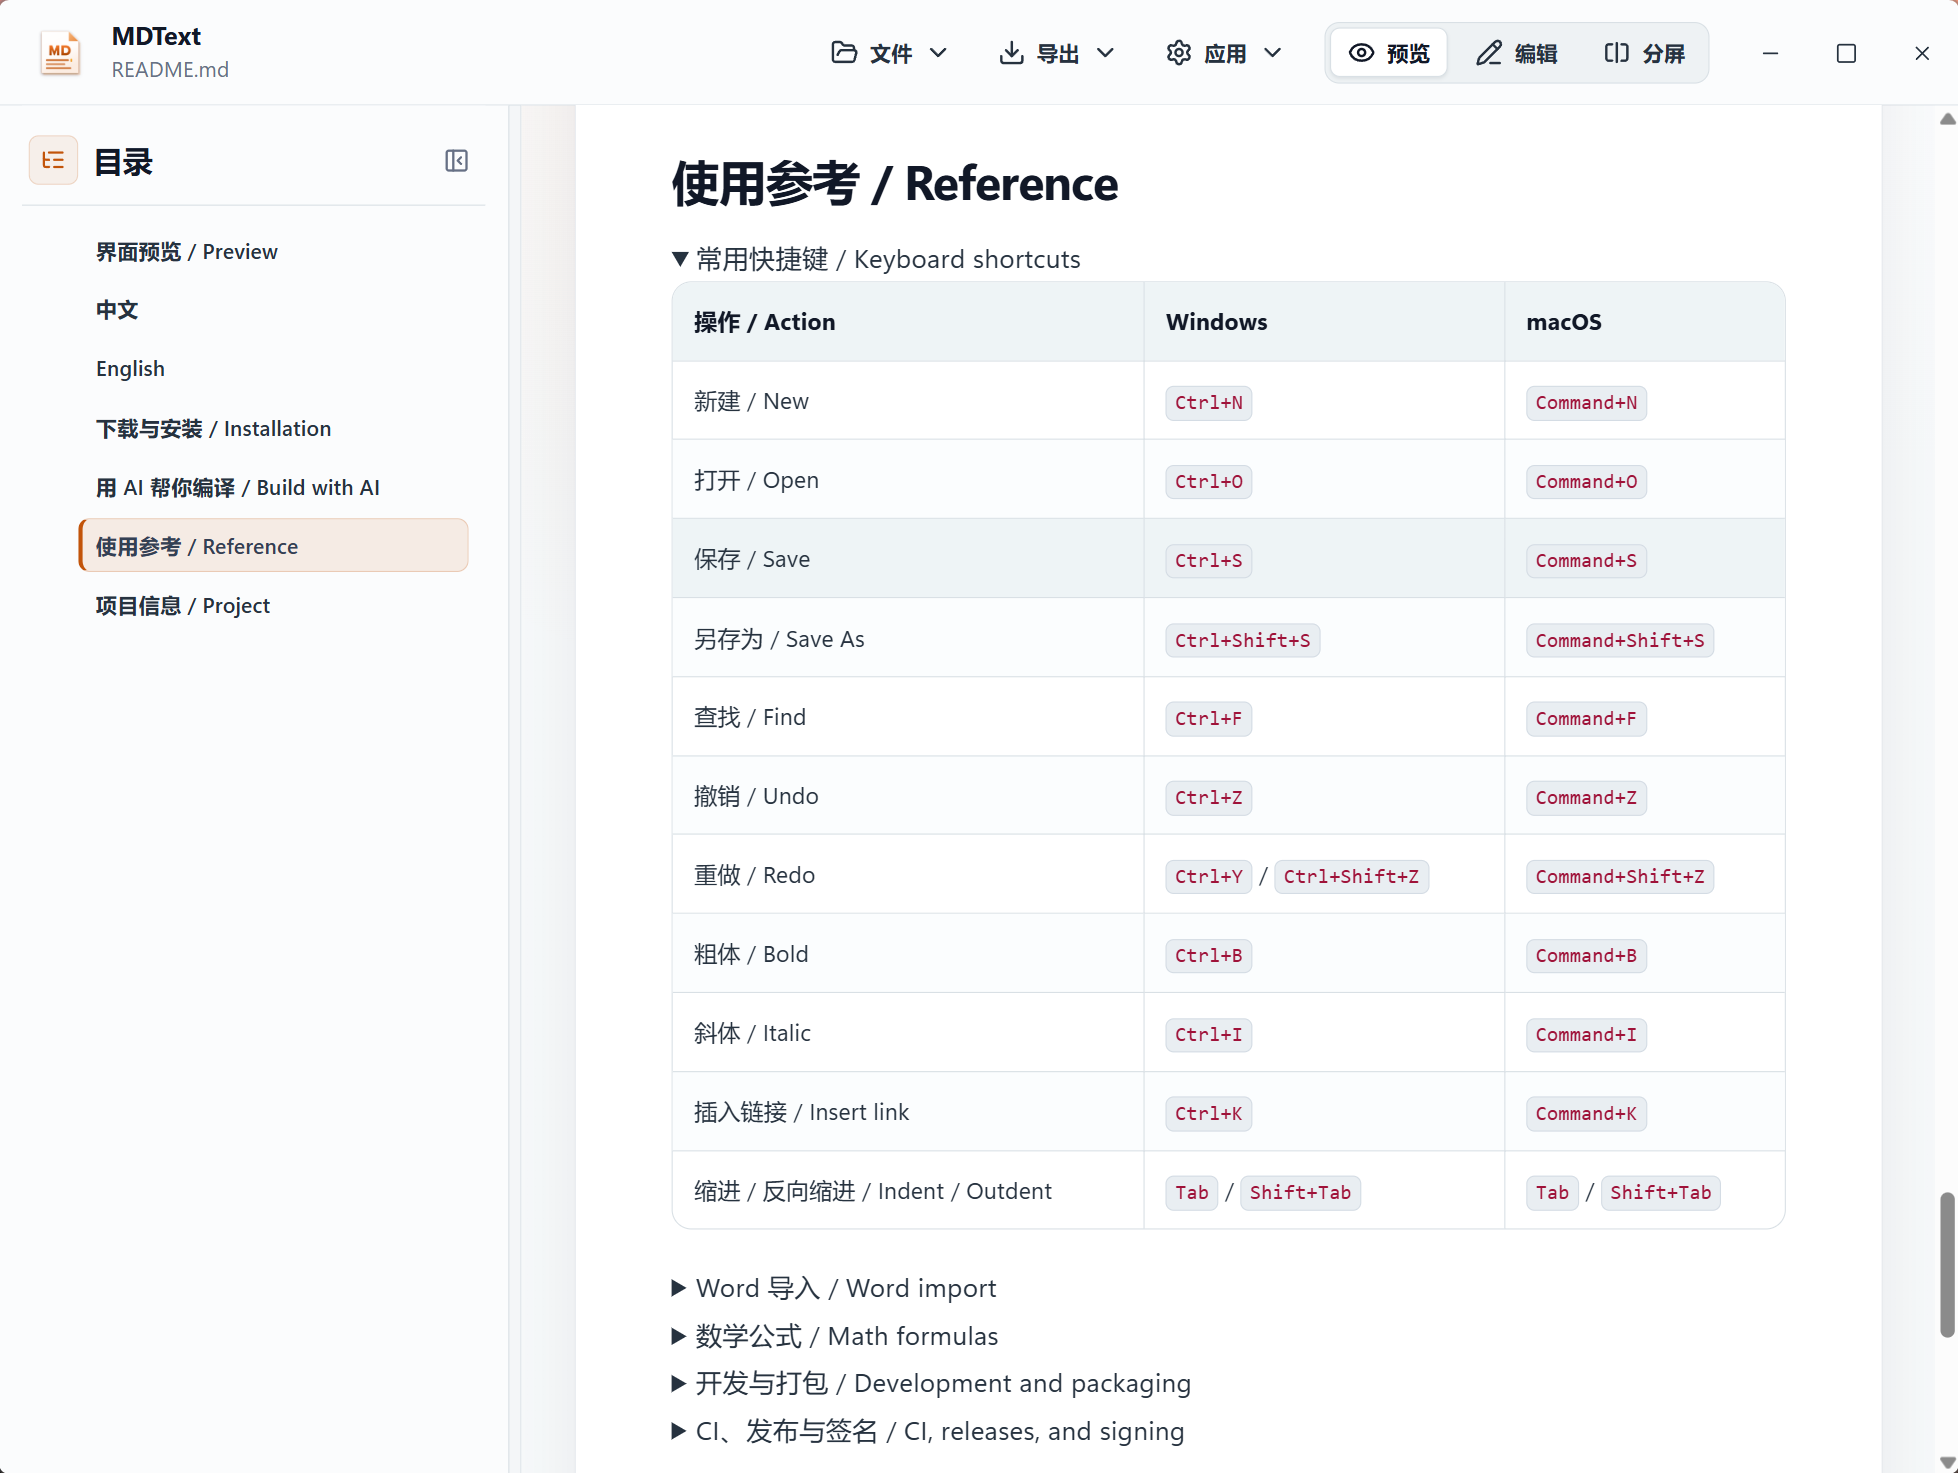
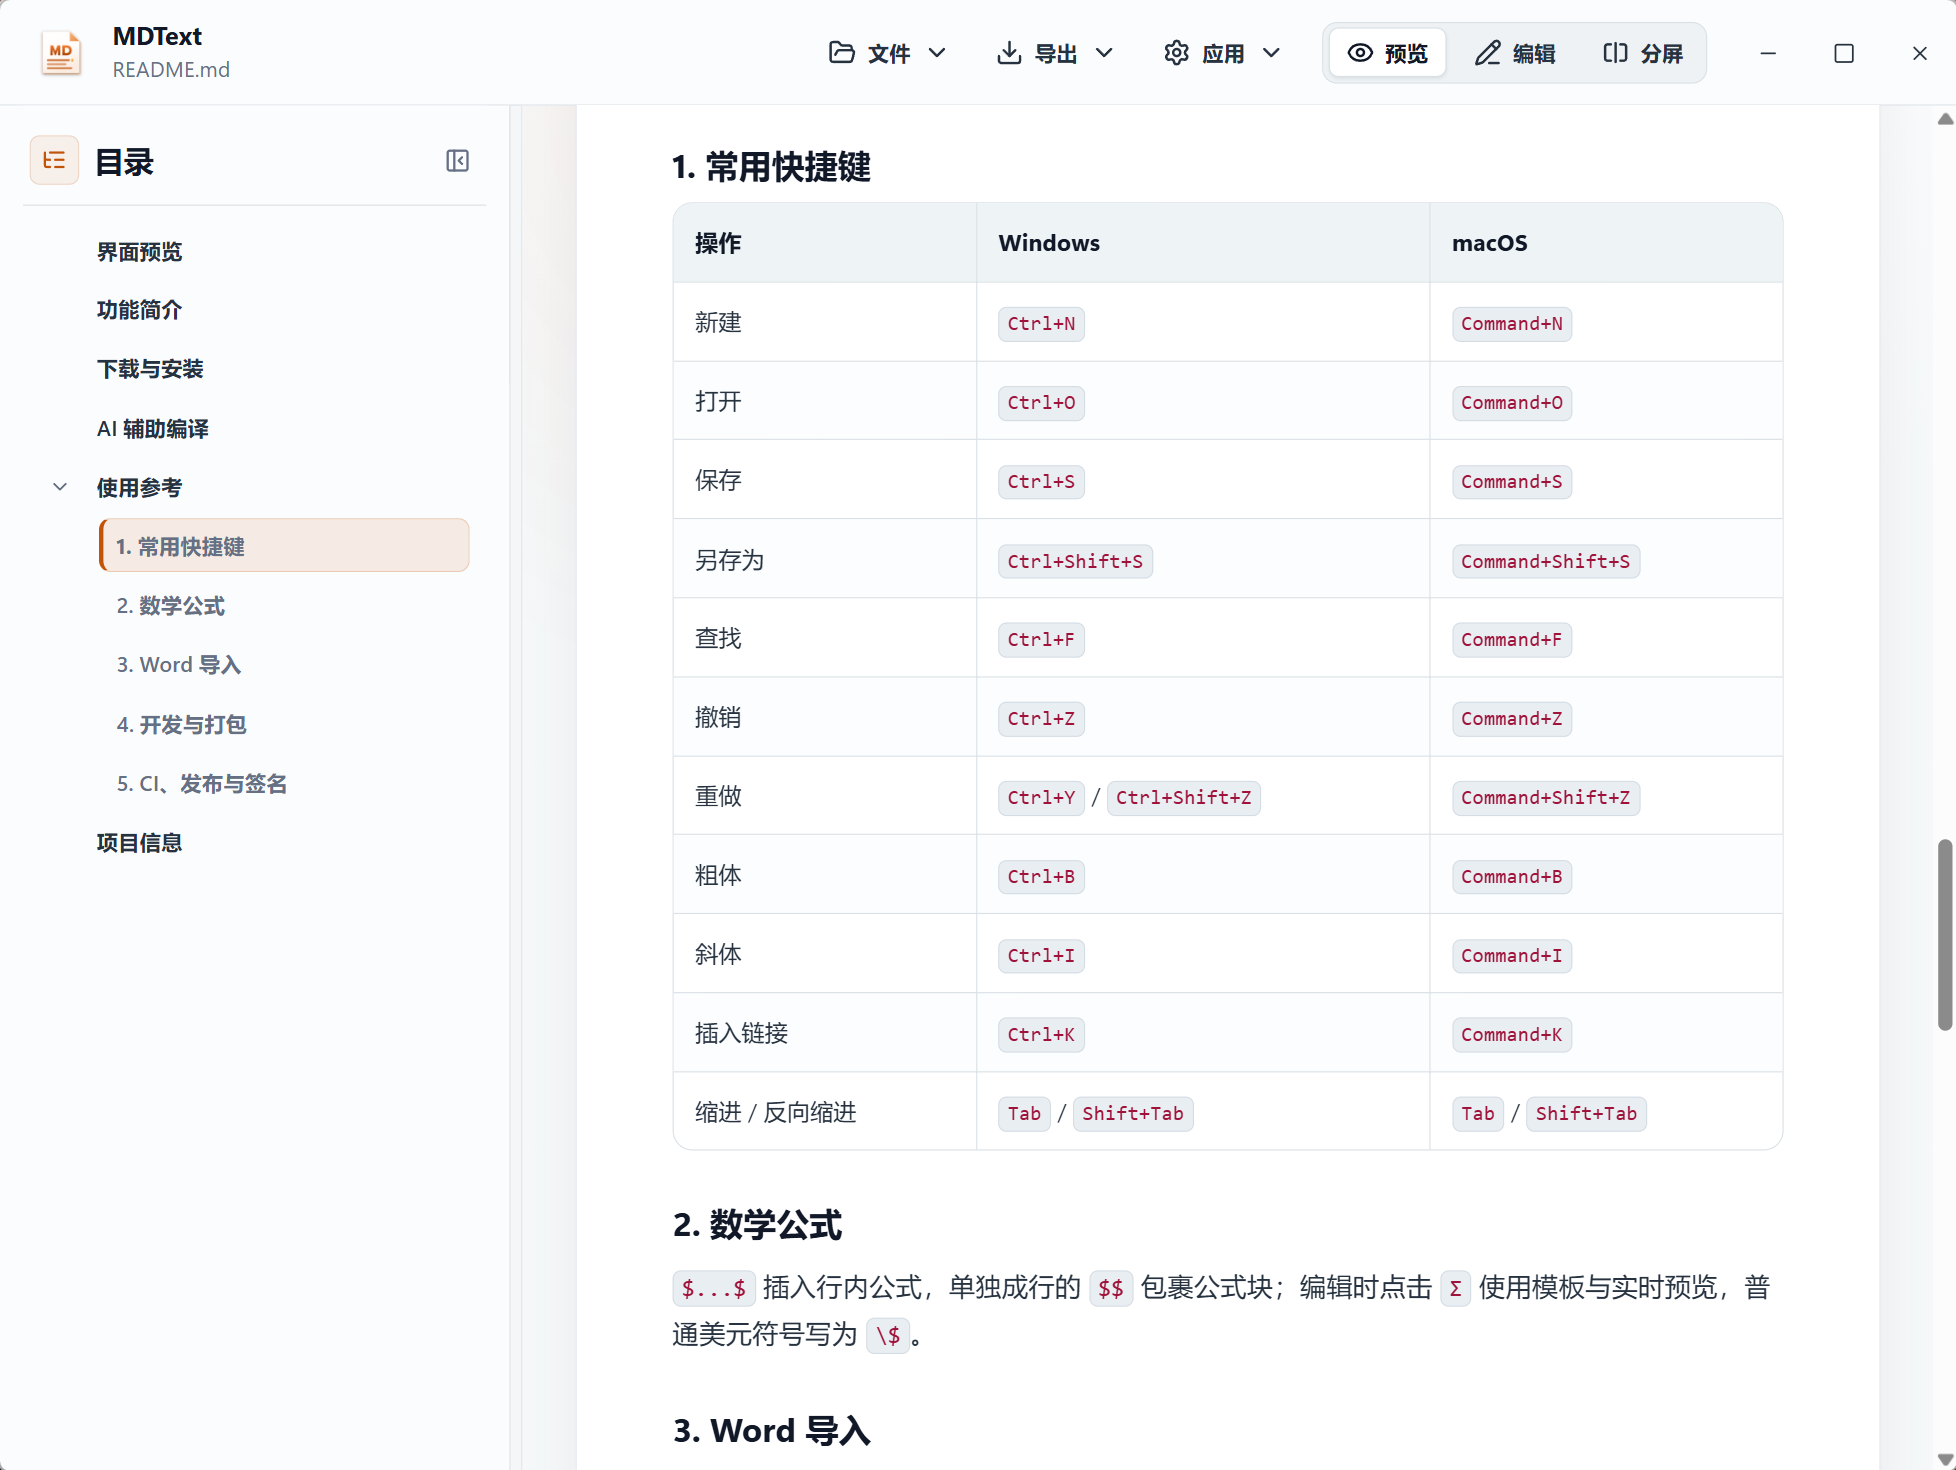
更新介绍

diff --git a/src/i18n.ts b/src/i18n.ts
@@ -367,7 +367,7 @@ export const translations = {
     fileMenu: '文件',
     exportMenu: '导出',
     appMenu: '应用',
-    createNew: '新建',
+    createNew: '新建文件',
     createNewLabel: '新建 Markdown 文件',
     newWindow: '新建窗口',
     newWindowLabel: '打开新窗口',
@@ -505,7 +505,7 @@ export const translations = {
     expandOutline: '展开文档目录',
     closeAbout: '关闭关于对话框',
     aboutTitle: '关于 MDText',
-    aboutSubtitle: '面向 AI 场景的轻量 Markdown 阅读器，MDView 的非官方分支。',
+    aboutSubtitle: '轻量 Markdown 阅读器、编辑器。',
     versionLabel: '版本',
     versionValue: (version: string) => `版本 ${version}`,
     authorLabel: '作者',

diff --git a/README.en.md b/README.en.md
@@ -56,8 +56,6 @@ Choose a package from [GitHub Releases](https://github.com/DOTATONG/MDText/relea
 | macOS            | **[Build from source](docs/BUILD_WITH_AI.md)** (AI-assisted recommended) |
 | Microsoft Edge   | **Extension ZIP**: extract and load unpacked                             |
 
-### Environment and file associations
-
 - **Windows** — WebView2 Runtime must be installed separately; MDText does not bundle or download it. The MSI uses an English installer; the app supports Chinese and English.
 - **macOS** — The release is a Universal DMG (Intel and Apple Silicon, macOS 10.15+). It is not yet signed or notarized by Apple, so building from source on your own Mac is recommended; local builds may still trigger system security prompts.
 - **Edge extension** — Enable Developer mode at `edge://extensions`, choose **Load unpacked**, and select the extracted folder containing `manifest.json`.
@@ -82,7 +80,7 @@ Let an AI coding tool with local terminal access handle the build:
 
 ## Reference
 
-### Keyboard shortcuts
+### 1. Keyboard shortcuts
 
 | Action           | Windows                   | macOS               |
 |------------------|---------------------------|---------------------|
@@ -98,15 +96,15 @@ Let an AI coding tool with local terminal access handle the build:
 | Insert link      | `Ctrl+K`                  | `Command+K`         |
 | Indent / Outdent | `Tab` / `Shift+Tab`       | `Tab` / `Shift+Tab` |
 
-### Math formulas
+### 2. Math formulas
 
 Use `$...$` for inline math and `$$` on separate lines for display math. Click `Σ` for templates and live preview; escape a literal dollar sign as `\$`.
 
-### Word import
+### 3. Word import
 
 Word conversion runs locally; initial setup requires Python and conversion components, with internet access for downloads.
 
-### Development and packaging
+### 4. Development and packaging
 
 Stack: Tauri 2 · React 19 · TypeScript · Vite.
 
@@ -130,7 +128,7 @@ Versioning: `npm run version:sync -- <major.minor.patch>`, then `npm run version
 
 Maintainer docs: [`ROADMAP.md`](ROADMAP.md) · [`Project structure`](docs/PROJECT_STRUCTURE.md) · [`Fork release guide`](docs/FORK_RELEASING.md).
 
-### CI, releases, and signing
+### 5. CI, releases, and signing
 
 Pushes and PRs run quality checks; manual CI runs also build desktop installers. A `v*` tag or the Release workflow publishes a GitHub Release. See [`FORK_RELEASING.md`](docs/FORK_RELEASING.md).
 

diff --git a/README.md b/README.md
@@ -55,8 +55,6 @@ MDText 是一款轻量、美观、免费无广告的 Markdown 阅读器。在清
 | macOS          | **[本机源码编译](docs/BUILD_WITH_AI.md)**（推荐 AI 辅助） |
 | Microsoft Edge | **Extension ZIP**：解压后加载                             |
 
-### 环境与文件关联
-
 - **Windows** — 需预先安装 [WebView2 Runtime](https://developer.microsoft.com/en-us/microsoft-edge/webview2/)，MDText 不附带或下载。MSI 安装界面为英文，应用支持中英文。
 - **macOS** — 发布包为 Universal DMG（Intel 与 Apple Silicon，macOS 10.15+），尚未完成 Apple 签名与公证，建议在自己的 Mac 上源码编译；本地构建仍可能出现系统安全提示。
 - **Edge 扩展** — 在 `edge://extensions` 开启开发人员模式，选择“加载解压缩的扩展”，选中解压后含 `manifest.json` 的文件夹。
@@ -80,7 +78,7 @@ msiexec /i MDText_x64.msi ASSOCIATE_MARKDOWN_FILES=0 /qn
 
 ## 使用参考
 
-### 常用快捷键
+### 1. 常用快捷键
 
 | 操作            | Windows                   | macOS               |
 |-----------------|---------------------------|---------------------|
@@ -96,15 +94,15 @@ msiexec /i MDText_x64.msi ASSOCIATE_MARKDOWN_FILES=0 /qn
 | 插入链接        | `Ctrl+K`                  | `Command+K`         |
 | 缩进 / 反向缩进 | `Tab` / `Shift+Tab`       | `Tab` / `Shift+Tab` |
 
-### 数学公式
+### 2. 数学公式
 
 `$...$` 插入行内公式，单独成行的 `$$` 包裹公式块；编辑时点击 `Σ` 使用模板与实时预览，普通美元符号写为 `\$`。
 
-### Word 导入
+### 3. Word 导入
 
 Word 转换在本机完成，首次使用需要 Python 和转换组件，下载组件需要联网。
 
-### 开发与打包
+### 4. 开发与打包
 
 技术栈：Tauri 2 · React 19 · TypeScript · Vite。
 
@@ -128,7 +126,7 @@ npm run desktop:dev
 
 维护者资料：[`ROADMAP.md`](ROADMAP.md) · [`工程目录说明`](docs/PROJECT_STRUCTURE.md) · [`Fork 发布指南`](docs/FORK_RELEASING.md)。
 
-### CI、发布与签名
+### 5. CI、发布与签名
 
 推送与 PR 执行质量检查；手动运行 CI 额外生成桌面安装包。推送 `v*` Tag 或运行 Release 工作流可发布 GitHub Release。详见 [`FORK_RELEASING.md`](docs/FORK_RELEASING.md)。
 
